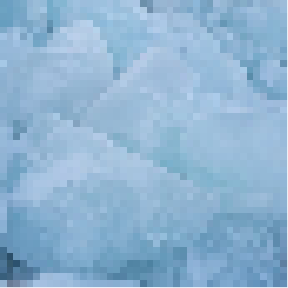
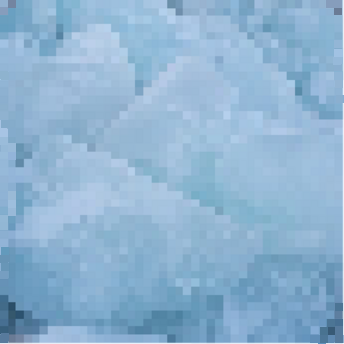
Improved Pixelart and added new map.

diff --git a/game.py b/game.py
@@ -59,7 +59,7 @@ def pause_screen():
 
 robot = Robot(300, 100, 25, 45)
 movement = Movement()
-arena = Arena("firstMap.json", pygame)
+arena = Arena("secondMap.json", pygame)
 
 game_paused = False
 run = True
